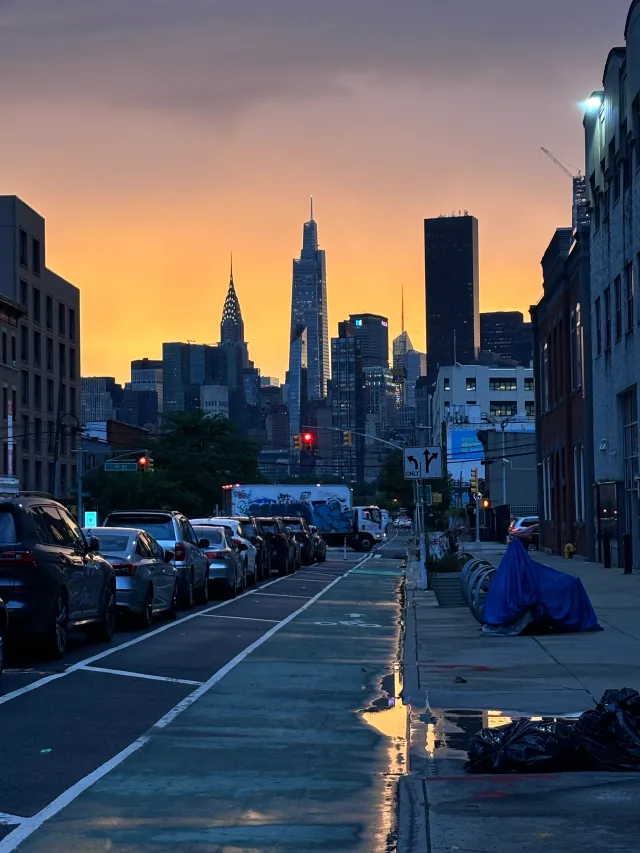
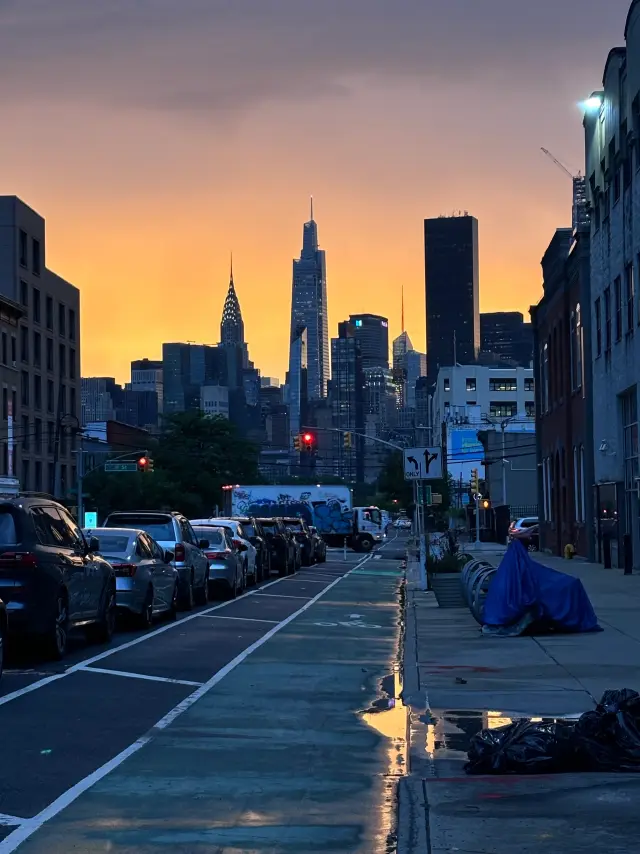
perf: recompress hero images, fix profile preload sizes
Re-encode the nyc-sunset (q72; sits behind a 45% overlay) and profile
(q78) responsive variants, cutting ~25-33% off each: nyc-sunset-960
108->81 KiB, profile-640 58->39 KiB. Clears the Lighthouse
image-delivery flags.

Also correct the profile 'sizes' descriptor: the container maxes at
320 CSS px but preload said 460px and the <source> said an 80vw branch
up to 640px, over-requesting a size larger than the image is ever
displayed at.

Changed region(s): [[0.3438, 0.5791, 0.375, 0.6096], [0.3125, 0.6096, 0.3438, 0.6401], [0.0938, 0.6401, 0.125, 0.6706]]

diff --git a/index.html b/index.html
@@ -129,7 +129,7 @@
 
     <!-- Preload critical LCP images -->
     <link rel="preload" as="image" href="/images/nyc-sunset-1280.webp" imagesrcset="/images/nyc-sunset-640.webp 640w, /images/nyc-sunset-960.webp 960w, /images/nyc-sunset-1280.webp 1280w, /images/nyc-sunset-1920.webp 1920w" imagesizes="100vw" type="image/webp" fetchpriority="high" />
-    <link rel="preload" as="image" href="/images/profile-460.webp" imagesrcset="/images/profile-320.webp 320w, /images/profile-460.webp 460w, /images/profile-640.webp 640w, /images/profile-920.webp 920w" imagesizes="(max-width: 640px) 80vw, 460px" type="image/webp" fetchpriority="high" />
+    <link rel="preload" as="image" href="/images/profile-460.webp" imagesrcset="/images/profile-320.webp 320w, /images/profile-460.webp 460w, /images/profile-640.webp 640w, /images/profile-920.webp 920w" imagesizes="(max-width: 400px) 80vw, 320px" type="image/webp" fetchpriority="high" />
 
     <title>Andrew Alagna - Software Engineer</title>
 

diff --git a/src/components/About/About.tsx b/src/components/About/About.tsx
@@ -95,7 +95,7 @@ export const About = () => {
           <picture className="relative block h-full w-full">
             <source
               srcSet="/images/profile-320.webp 320w, /images/profile-460.webp 460w, /images/profile-640.webp 640w, /images/profile-920.webp 920w"
-              sizes="(max-width: 640px) 80vw, 320px"
+              sizes="(max-width: 400px) 80vw, 320px"
               type="image/webp"
             />
             <img
